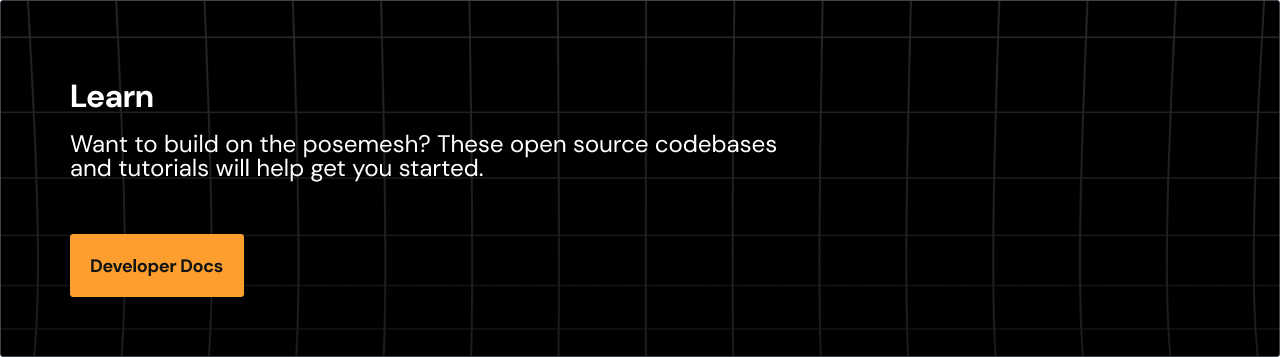
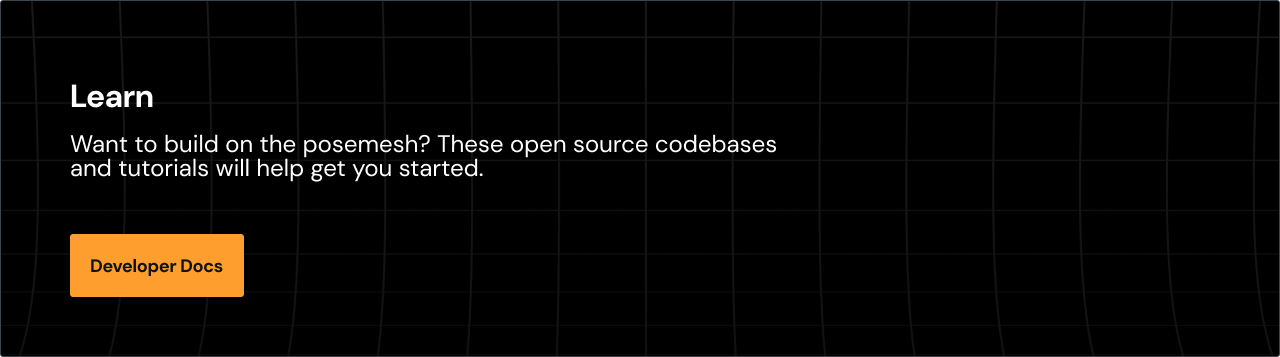
fixes

diff --git a/profile/README.md b/profile/README.md
@@ -126,9 +126,9 @@ To showcase what can be done on the real world web, Auki Labs develops, maintain
 <a href="#"><img src="assets/GetInvolved.png" alt="Get Involved" width="100%" /></a>
 
 <a href="https://www.auki.com/developers/grants"><img src="assets/Grants.png" alt="Apply for a Grant" width="100%" /></a>
-<br />
+
 <a href="https://github.com/aukilabs/posemesh/issues?q=is%3Aissue+is%3Aopen+label%3A%22good+first+issue%22"><img src="assets/Contribute.png" alt="Contribute" width="100%" /></a>
-<br />
+
 <a href="https://www.auki.com/developers/welcome"><img src="assets/Learn.png" alt="Learn" width="100%" /></a>
 
 <br />
